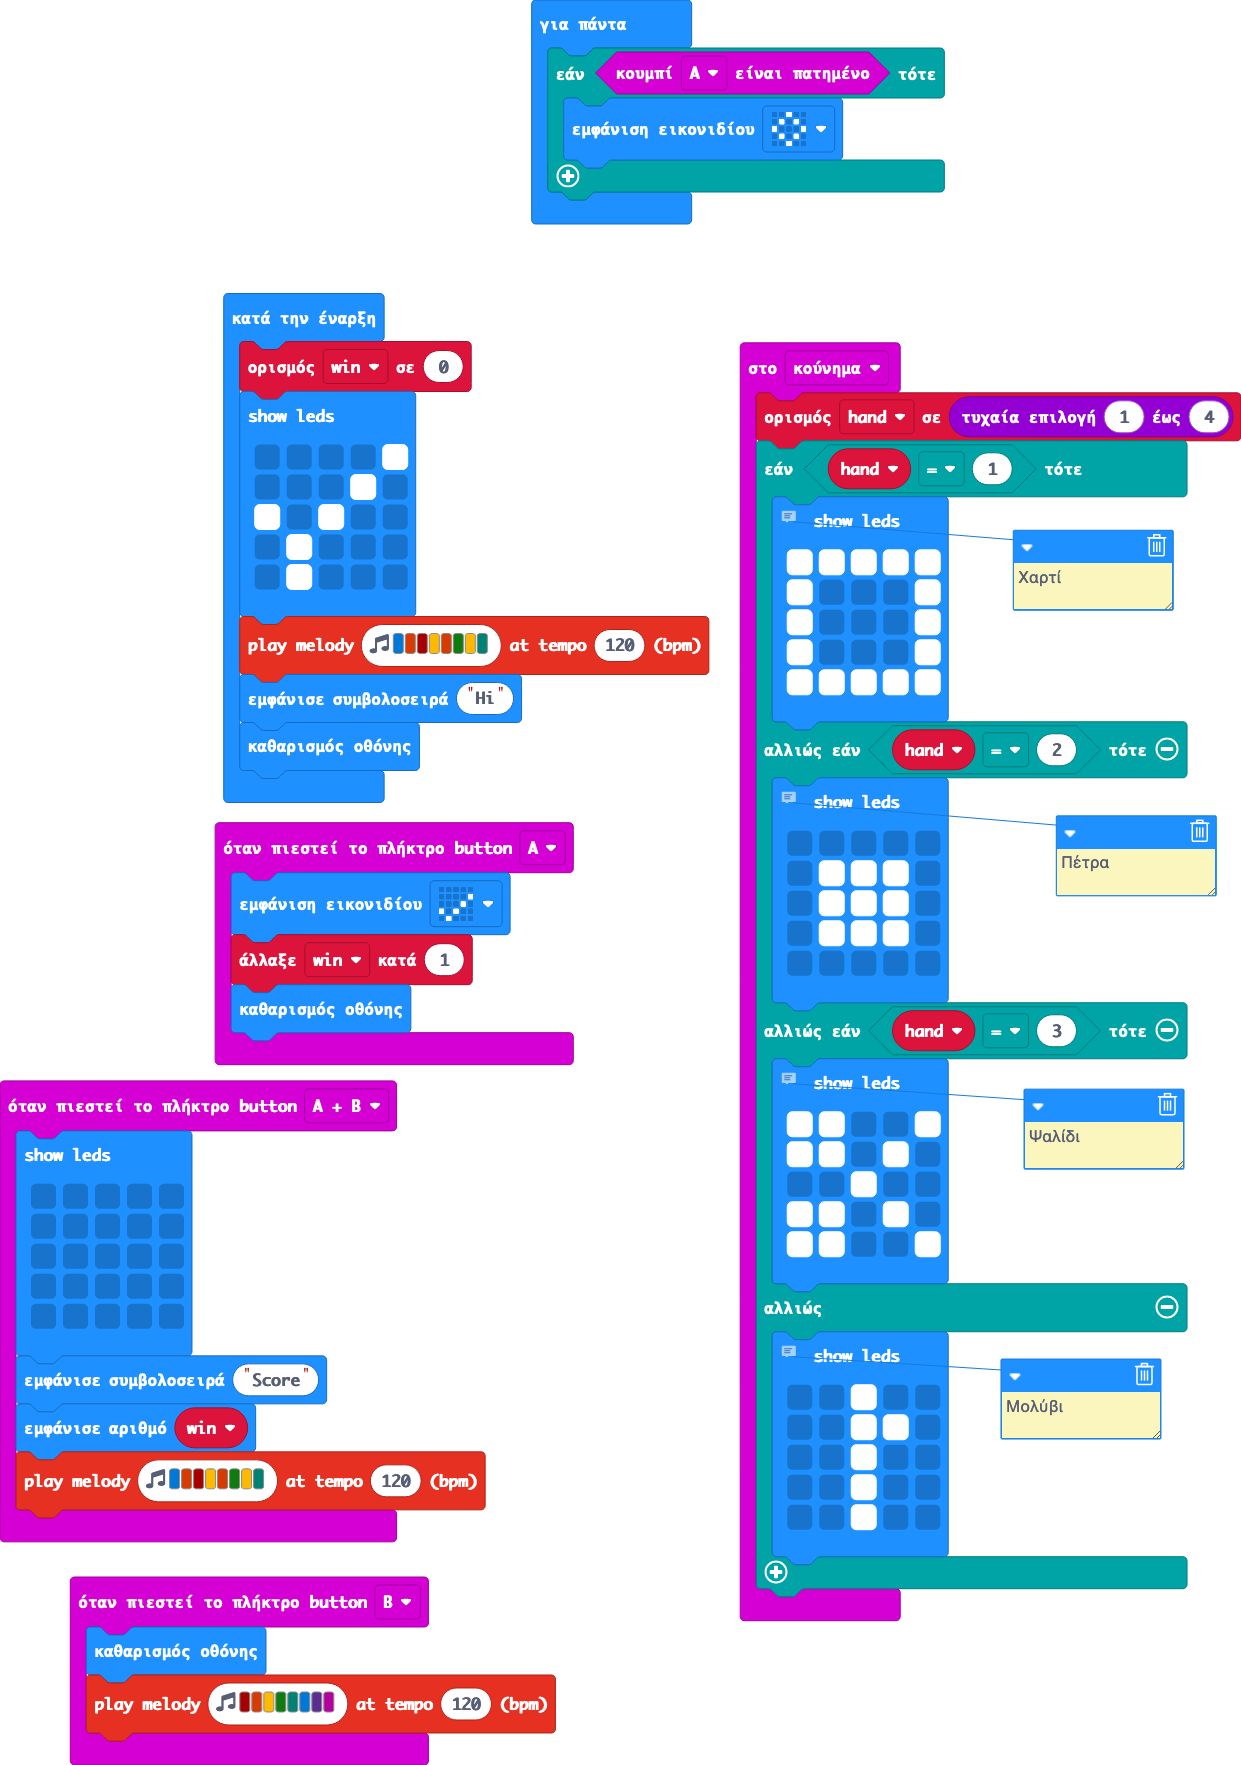
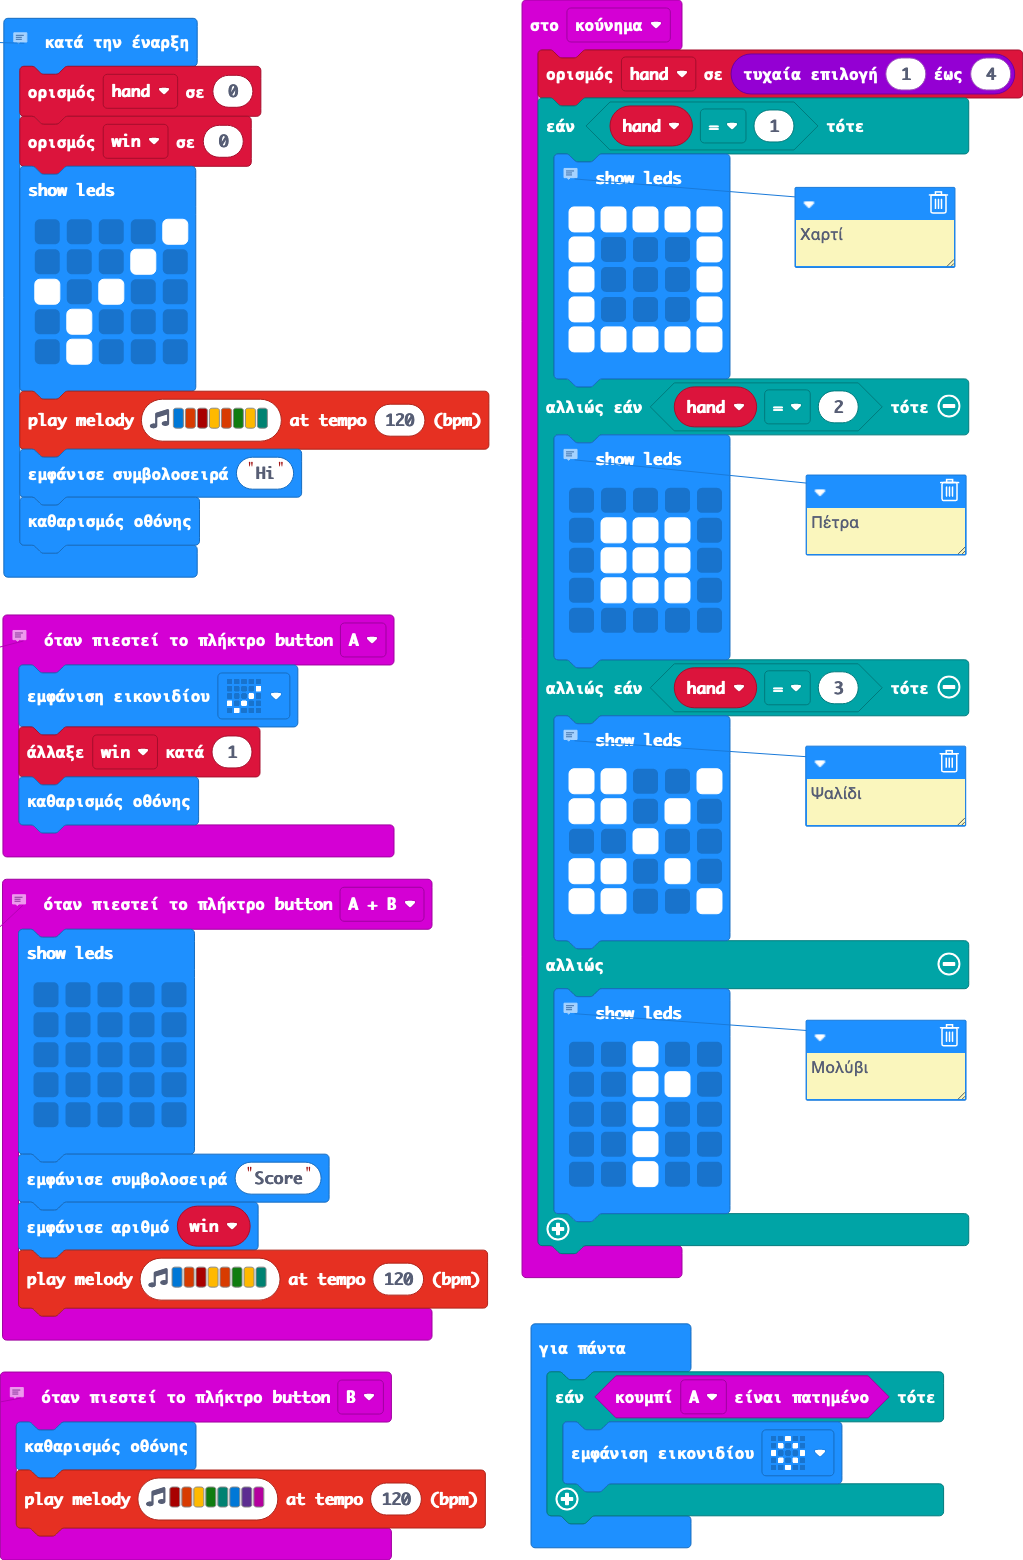
Μεταβλητές

diff --git a/main.ts b/main.ts
@@ -39,6 +39,8 @@ input.onGesture(Gesture.Shake, function () {
             `)
     }
 })
+// Δείξε το σκορ
+// 
 input.onButtonPressed(Button.AB, function () {
     basic.showLeds(`
         . . . . .
@@ -51,17 +53,23 @@ input.onButtonPressed(Button.AB, function () {
     basic.showNumber(win)
     music.playMelody("E B C5 A B G A F ", 120)
 })
+// Κέρδισα !! Αύξησε το  σκορ
+// 
 input.onButtonPressed(Button.A, function () {
     basic.showIcon(IconNames.Yes)
     win += 1
     basic.clearScreen()
 })
+// Καθάρισε την οθόνη - με το Β
 input.onButtonPressed(Button.B, function () {
     basic.clearScreen()
     music.playMelody("C5 B A G F E D C ", 120)
 })
-let hand = 0
+// Αρχικοποίηση
+// 
 let win = 0
+let hand = 0
+hand = 0
 win = 0
 basic.showLeds(`
     . . . . #
